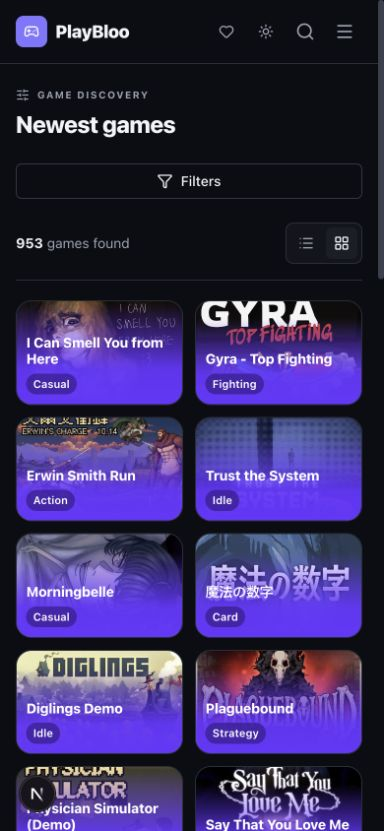
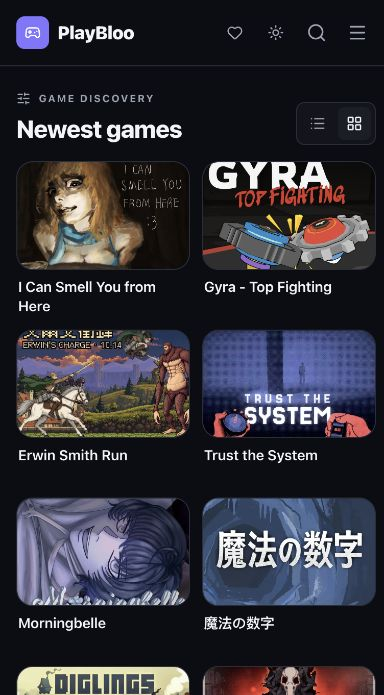
fix: 修复移动端游戏卡片常驻紫色遮罩
触屏和小屏卡片改为完整封面与下方两行游戏名，移除常驻紫色层及次要信息；将悬停放大和媒体高亮限定鼠标设备，保留键盘焦点和桌面信息层。固定封面比例并更新llms.txt、验收记录和截图。验证TypeScript、定向ESLint及diff检查通过；浏览器核对320/390px无溢出、深浅主题、首页20张卡片、单次详情跳转及桌面聚焦效果。未进行真实触屏硬件测试，无游戏上下架或sitemap时间戳改动。

diff --git a/src/components/games/GameCard.tsx b/src/components/games/GameCard.tsx
@@ -35,8 +35,8 @@ export function GameCard({ game, badges = [], showDate = false, dateField = "add
 
   return (
     <article className="game-card group relative min-w-0">
-      <Link href={`/game/${game.slug}`} prefetch={false} aria-label={`View ${game.title}`} className="game-card-link">
-        <div className="game-card-media relative aspect-[16/10] overflow-hidden rounded-xl bg-muted">
+      <Link href={`/game/${game.slug}`} prefetch={false} aria-label={`View ${game.title}`} className="game-card-link relative">
+        <div className="game-card-media relative aspect-[16/10] shrink-0 overflow-hidden rounded-xl bg-muted">
           {game.thumbnail_url ? (
             <Image
               src={game.thumbnail_url}
@@ -53,21 +53,21 @@ export function GameCard({ game, badges = [], showDate = false, dateField = "add
             </span>
           )}
           {visibleBadge && <span className={`game-card-status ${visibleBadge === "TRENDING" ? "is-trending" : ""}`}>{visibleBadge === "TRENDING" ? "Trending" : visibleBadge === "NEW" ? "New" : visibleBadge === "UPDATED" ? "Updated" : visibleBadge}</span>}
-          <div className="game-card-copy">
-            <h3 className="game-card-title line-clamp-2">{game.title}</h3>
-            <div className="game-card-meta">
-              <span className="min-w-0 truncate">{primaryCategory?.name || "Browser game"}</span>
-              <span className={`game-card-mode ${playMode === "embedded" ? "is-playable" : ""}`}>
-                {playMode === "embedded" ? <><Play className="h-3 w-3" aria-hidden="true" />Play here</> : playMode === "external" ? <><ExternalLink className="h-3 w-3" aria-hidden="true" />External</> : "Details only"}
-              </span>
-            </div>
-            {(showDate && dateValue && !Number.isNaN(dateValue.getTime()) || game.view_count > 0) && (
-              <div className="game-card-details">
-                {showDate && dateValue && !Number.isNaN(dateValue.getTime()) && <time dateTime={rawDate || undefined}>{dateField === "released" ? "Released" : dateField === "updated" ? "Updated" : "Added"} {dateValue.toLocaleDateString("en", { month: "short", day: "numeric", timeZone: "UTC" })}</time>}
-                {game.view_count > 0 && <span className="inline-flex items-center gap-1"><Eye className="h-3 w-3" aria-hidden="true" />{formatCount(game.view_count)} views</span>}
-              </div>
-            )}
+        </div>
+        <div className="game-card-copy">
+          <h3 className="game-card-title line-clamp-2">{game.title}</h3>
+          <div className="game-card-meta">
+            <span className="min-w-0 truncate">{primaryCategory?.name || "Browser game"}</span>
+            <span className={`game-card-mode ${playMode === "embedded" ? "is-playable" : ""}`}>
+              {playMode === "embedded" ? <><Play className="h-3 w-3" aria-hidden="true" />Play here</> : playMode === "external" ? <><ExternalLink className="h-3 w-3" aria-hidden="true" />External</> : "Details only"}
+            </span>
           </div>
+          {(showDate && dateValue && !Number.isNaN(dateValue.getTime()) || game.view_count > 0) && (
+            <div className="game-card-details">
+              {showDate && dateValue && !Number.isNaN(dateValue.getTime()) && <time dateTime={rawDate || undefined}>{dateField === "released" ? "Released" : dateField === "updated" ? "Updated" : "Added"} {dateValue.toLocaleDateString("en", { month: "short", day: "numeric", timeZone: "UTC" })}</time>}
+              {game.view_count > 0 && <span className="inline-flex items-center gap-1"><Eye className="h-3 w-3" aria-hidden="true" />{formatCount(game.view_count)} views</span>}
+            </div>
+          )}
         </div>
       </Link>
     </article>

diff --git a/src/app/globals.css b/src/app/globals.css
@@ -478,10 +478,6 @@
   box-shadow: none;
   transition: border-color 150ms ease, opacity 150ms ease;
 }
-.game-card:hover .game-card-media {
-  border-color: rgba(129, 119, 255, 0.46);
-  box-shadow: none;
-}
 .game-card-play {
   transform: scale(0.88);
   transition: transform 250ms cubic-bezier(0.22, 1, 0.36, 1);
@@ -659,6 +655,7 @@ body.game-fullscreen .site-main {
   position: absolute;
   inset: auto 0 0;
   padding: 1.5rem .75rem .65rem;
+  border-radius: 0 0 1rem 1rem;
   background: linear-gradient(0deg, #6935ff 0%, #6935fff2 35%, #6935ff00 100%);
   color: #fff;
   opacity: 0;
@@ -672,17 +669,31 @@ body.game-fullscreen .site-main {
 .game-card .game-card-meta > span:first-child { border-radius: 999px; padding: .15rem .45rem; background: #30177899; }
 .game-card .game-card-details { color: #fff; margin-top: .3rem; }
 .game-card .game-card-status { transition: opacity 180ms ease; }
-.game-card-link:is(:hover, :focus-visible) .game-card-copy { opacity: 1; transform: none; }
-.game-card-link:is(:hover, :focus-visible) .game-card-media { border-color: #8157ff; box-shadow: 0 0 0 2px #8157ff, 0 10px 28px #0004; }
-.game-card-link:is(:hover, :focus-visible) .game-card-status { opacity: 0; }
-@media (hover: hover) and (pointer: fine) {
+.game-card-link:focus-visible .game-card-copy { opacity: 1; transform: none; }
+@media (hover: hover) and (pointer: fine) and (width >= 640px) {
+  .game-card-link:hover .game-card-copy { opacity: 1; transform: none; }
+  .game-card-link:is(:hover, :focus-visible) .game-card-media { border-color: #8157ff; box-shadow: 0 0 0 2px #8157ff, 0 10px 28px #0004; }
+  .game-card-link:is(:hover, :focus-visible) .game-card-status { opacity: 0; }
   .game-card-link:is(:hover, :focus-visible) { transform: scale(1.04); }
 }
 @media (hover: none), (pointer: coarse), (width < 640px) {
-  .game-card .game-card-copy { opacity: 1; transform: none; padding: 2rem .6rem .6rem; }
-  .game-card .game-card-title { font-size: .875rem; }
-  .game-card .game-card-details, .game-card .game-card-mode { display: none; }
-  .game-card .game-card-status { display: none; }
+  .game-card .game-card-copy {
+    position: static;
+    padding: .45rem .1rem .1rem;
+    background: transparent;
+    color: var(--foreground);
+    opacity: 1;
+    transform: none;
+    transition: none;
+  }
+  .game-card .game-card-title {
+    min-height: 2.7em;
+    color: var(--foreground);
+    font-size: .875rem;
+    font-weight: 600;
+    line-height: 1.35;
+  }
+  .game-card .game-card-meta, .game-card .game-card-details, .game-card .game-card-status { display: none; }
 }
 @media (prefers-reduced-motion: reduce) {
   .game-card .game-card-copy, .game-card .game-card-media, .game-card .game-card-status { transition: none; }

diff --git a/design-qa.md b/design-qa.md
@@ -3,33 +3,34 @@
 final result: passed
 
 ## Reference and evidence
-- Source: `/var/folders/ll/zfhgnxpx1sl87rndkww8r32w0000gq/T/codex-clipboard-0b878a38-4125-416c-9198-c82d7bcf99f4.png` (772 × 392); second user screenshot documents the incomplete five-column grid.
-- Desktop: `reports/card-refresh-2026-10-15/desktop.png` (1274 × 717 pixels, browser default viewport, 1× capture).
-- Mobile: `reports/card-refresh-2026-10-15/mobile.png` (390 × 844 pixels, 390 × 844 CSS viewport, 1× capture).
+- Desktop visual target: `/var/folders/ll/zfhgnxpx1sl87rndkww8r32w0000gq/T/codex-clipboard-0b878a38-4125-416c-9198-c82d7bcf99f4.png` (772 × 392).
+- Mobile regression supplied by user: `/var/folders/ll/zfhgnxpx1sl87rndkww8r32w0000gq/T/codex-clipboard-99511590-f7ee-4fbc-9f15-1197be057be6.png`.
+- Desktop verification: `reports/card-refresh-2026-10-15/desktop.png`, 1434 × 996 image pixels from a 1440 × 1000 CSS viewport, 1× content capture.
+- Mobile verification: `reports/card-refresh-2026-10-15/mobile.png`, 384 × 831 image pixels from a 390 × 844 CSS viewport, 1× content capture.
 - URL: http://127.0.0.1:3000/search
-- The source card is shown enlarged, while implementation uses existing PlayBloo grid dimensions and real catalog data. Comparison is component-level, not a pixel-identical page clone.
-- Source and desktop captures were opened together for visual comparison. The focused card is legible in the full capture, so a separate crop was unnecessary.
+- Component-level comparison: existing PlayBloo game assets and content are intentional adaptations of the desktop source. Desktop and mobile have different interaction models.
 
-## Findings and fidelity
-- No remaining P0/P1/P2 findings.
-- Typography: bold white title and smaller category/mode/date metadata; preserve the existing site font. Long titles wrap to two lines.
-- Layout: rounded cover-only tiles, no text below the image, purple lower overlay on keyboard focus (same selectors as hover). Subtle scaling does not reflow adjacent tiles.
-- Colors: purple gradient, white text, dark category pill and purple border follow the reference. Keyboard focus adds a separate accessible outline.
-- Assets: existing game covers remain unchanged and load from original URLs; no invented popularity metrics or generated game imagery.
-- Content: real title/category/play mode/date/views replace the reference's title/category/play/like statistics. This is intentional adaptation to available product data.
-- Narrow screens show title/category continuously and omit date/mode to keep the cover readable. Coarse-pointer and non-hover media rules provide the same treatment.
+## Findings and corrections
+- [P1, resolved] All mobile cards permanently displayed the purple desktop information layer, obscuring the covers. The earlier QA incorrectly accepted that treatment as the touch fallback.
+- Move card information outside the media container. On small screens, coarse pointers and non-hover devices, display only a two-line title below the unobstructed cover; hide secondary metadata and remove the overlay background.
+- Limit hover reveal, media highlight and enlargement to fine-pointer devices with hover and width >= 640px. Mobile keyboard focus keeps its outline without an overlay or enlargement.
+- Keep the media at 16:10 with flex-shrink disabled. Preserve bottom overlay rounding for the desktop sibling layout.
+- No outstanding P0/P1/P2 findings in the verified states.
 
-## Verification and iteration
-- Desktop DOM measured 24 cards in six rows of four; page two also returned 24 cards after clicking Next.
-- Keyboard Tab reveals the information overlay. Default light appearance and dark appearance inspected.
-- 390px viewport: two columns, no horizontal overflow (document client/scroll width both 384px with scrollbar). Final screenshot confirms visible titles/categories.
-- First narrow-screen check exposed stale development CSS. Switched the local preview from Turbopack to Webpack and recaptured; final computed overlay opacity is 1.
-- Browser console error log empty. Existing Next.js LCP image-loading advisory is not an application error.
-- Actual touchscreen hardware and physical mouse hover were not separately exercised; keyboard focus validates the shared reveal rules. No outstanding visual mismatch identified.
+## Fidelity surfaces
+- Typography: existing site font; compact mobile titles use theme foreground, 14px/1.35 and weight 600. Two-line space keeps grid rows aligned.
+- Spacing/layout: mobile captions follow their cover without overlap; desktop keeps six columns and absolute-positioned information. Caption and cover remain one link.
+- Colors: no mobile gradient; readable foreground in light/dark themes. Desktop retains the purple reveal layer and accessible focus outline.
+- Assets: existing compressed covers, original URLs and global unoptimized image setting preserved.
+- Content: title always available on mobile; category, mode, dates and views are desktop reveal details. No fabricated statistics.
 
-## Implementation checklist
-- [x] Cover-first shared card, keyboard and touch fallback, reduced-motion support.
-- [x] Search grid column counts divide the existing 24-item page size.
-- [x] Preserve normal incomplete last pages when fewer than 24 results remain.
-- [x] Update llms.txt display description.
-- [x] No game publishing/data changes; sitemap generator and timestamps unchanged.
+## Verification
+- 320px and 390px viewport checks: computed caption background image is none; no horizontal overflow.
+- 390px: caption position static, below media; cover width/height ratio 1.6.
+- Mobile keyboard focus: no transform, no media shadow, no caption gradient; solid outline remains.
+- A single card click navigated to `/game/gyra` with navigation completion awaited.
+- Homepage: all 20 mobile cards have no overlay. Light and dark theme text inspected.
+- Desktop: default copy absolute and opacity 0; keyboard focus changes opacity to 1, keeps 16px bottom corners and expected enlargement.
+- Browser console errors: none observed.
+- Actual touch hardware and physical mouse hover were not separately exercised. Browser viewport checks and CSS media conditions cover the corresponding layouts; no claim of a real-device test.
+- TypeScript, targeted ESLint and diff checks pass. llms.txt synchronized. No game publishing/data or sitemap timestamp changes.
